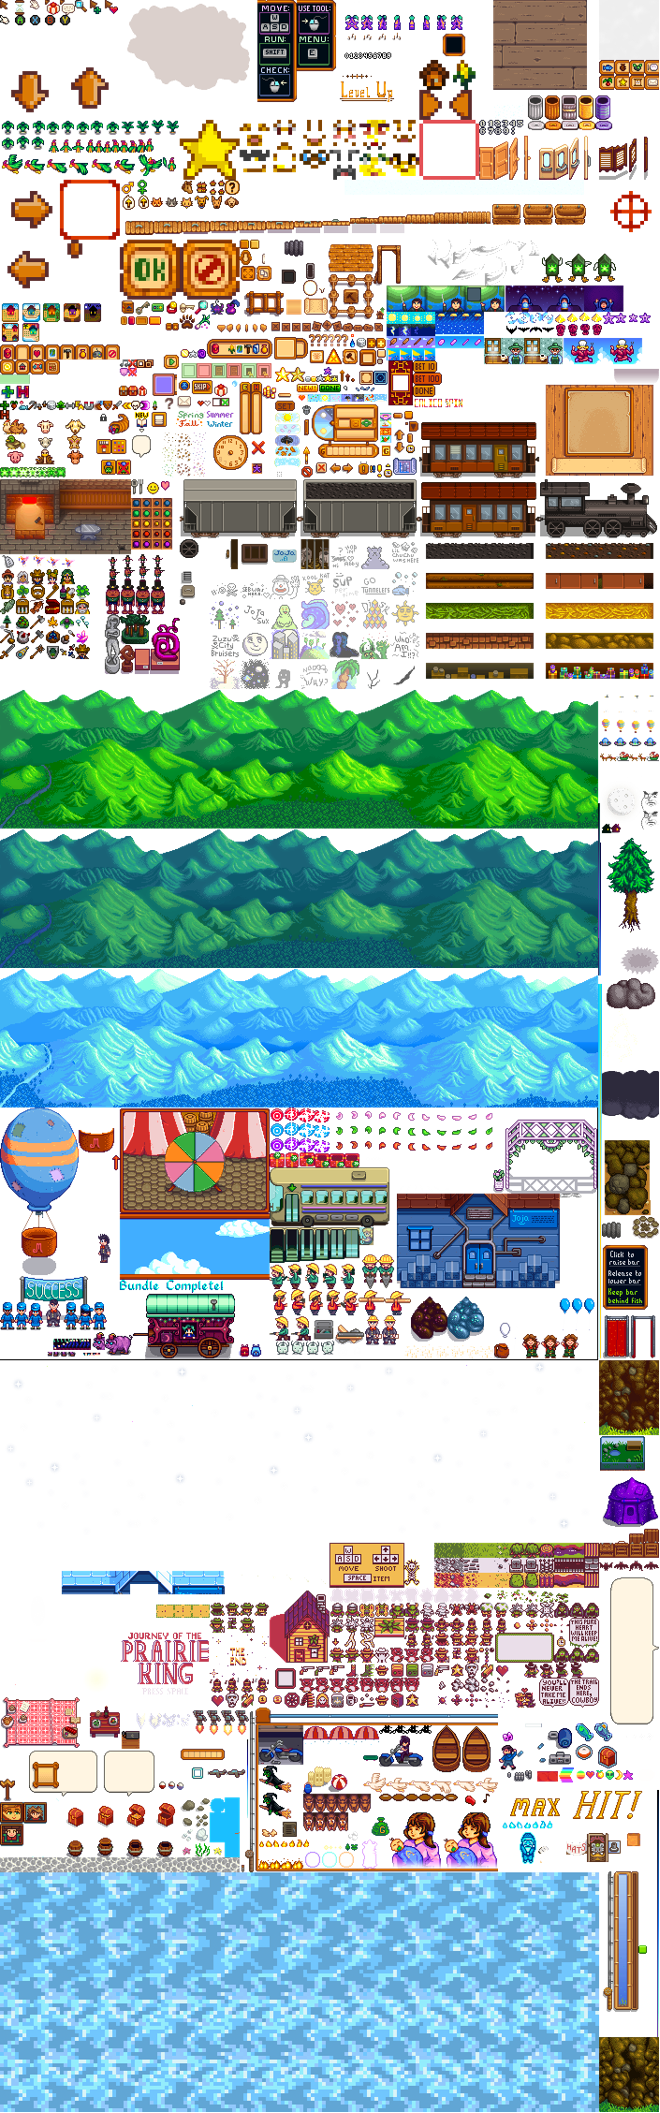
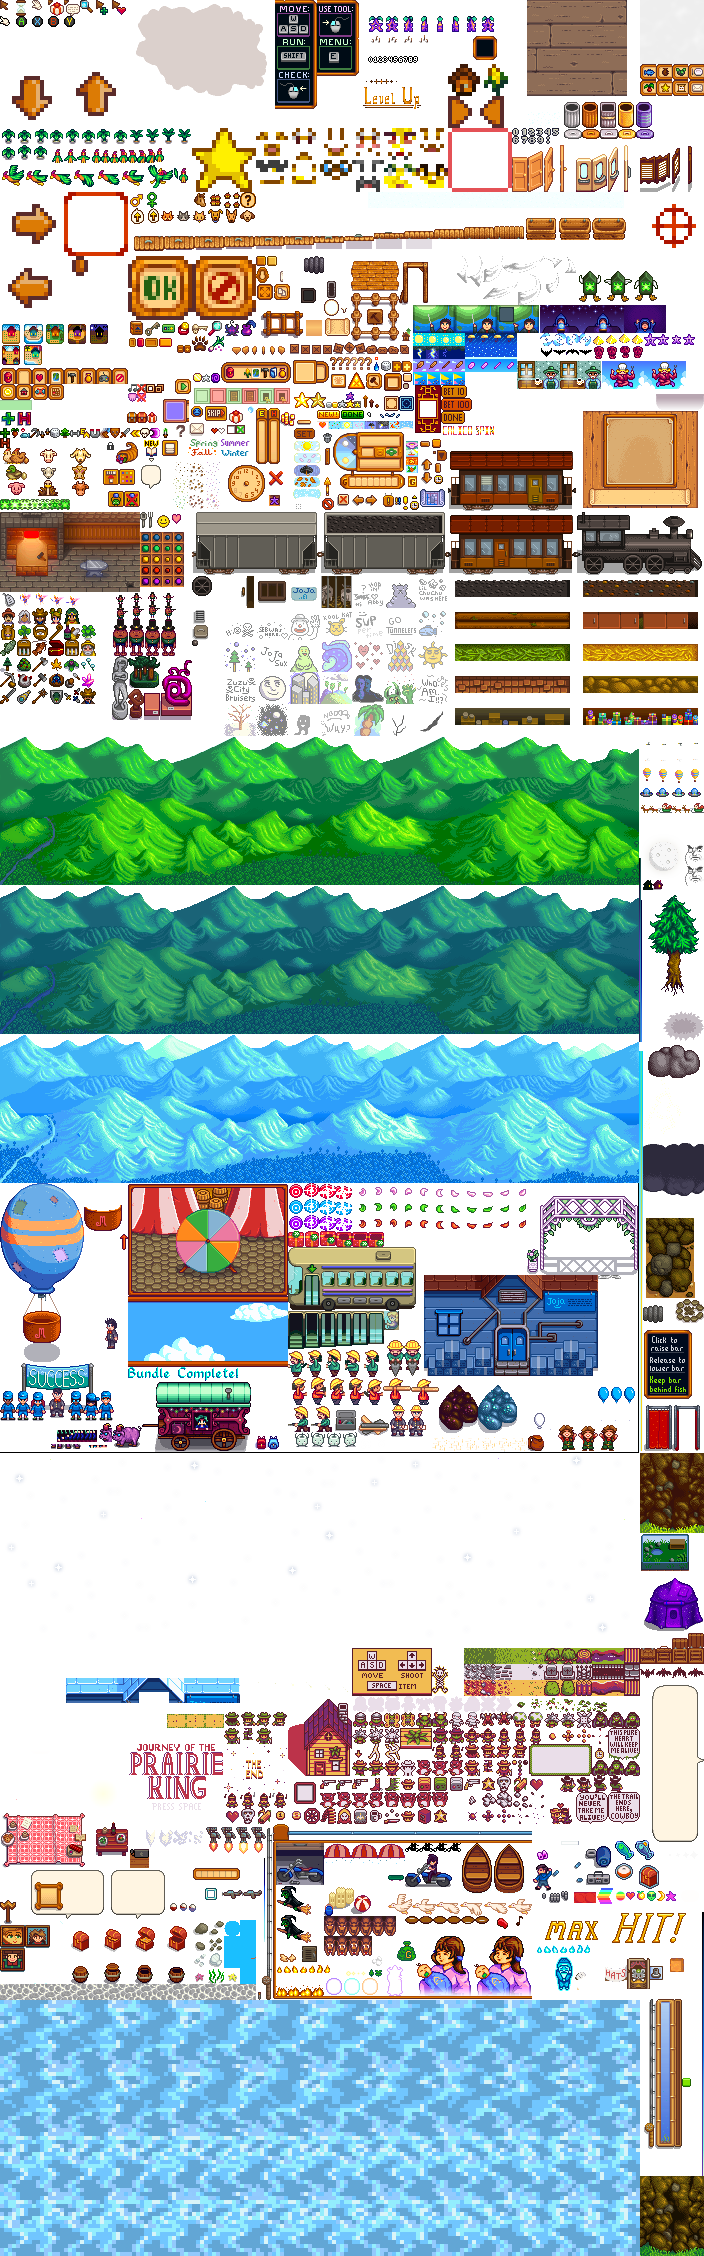
fixed cursors texture

diff --git a/EnhancedWheelSpinGame/ModEntry.cs b/EnhancedWheelSpinGame/ModEntry.cs
@@ -45,17 +45,15 @@ namespace EnhancedWhenSpinGame
 
         private void LoadWheelAssets(object sender, AssetRequestedEventArgs e)
         {
-            if (e.Name.StartsWith("LooseSprites/", false, true))
+            if (e.Name.IsEquivalentTo("LooseSprites/Cursors"))
             {
-                if (e.Name.IsEquivalentTo("LooseSprites/Cursors"))
-                {
-                    e.LoadFromModFile<Texture2D>("assets/Cursors.png", AssetLoadPriority.Medium);
-                }
-                else if (e.Name.IsEquivalentTo("LooseSprites/Festivals"))
-                {
-                    e.LoadFromModFile<Texture2D>("assets/Festivals.png", AssetLoadPriority.Medium);
-                }
+                e.LoadFromModFile<Texture2D>("assets/Cursors.png", AssetLoadPriority.Medium);
             }
+            else if (e.Name.IsEquivalentTo("Maps/Festivals"))
+            {
+                e.LoadFromModFile<Texture2D>("assets/Festivals.png", AssetLoadPriority.Medium);
+            }
+
         }
 
         /* TODO remove after completion */

diff --git a/EnhancedWheelSpinGame/WheelSpinGame.cs b/EnhancedWheelSpinGame/WheelSpinGame.cs
@@ -37,7 +37,7 @@ namespace EnhancedWheelSpinGame
                 arrowRotationVelocity += Math.PI / 64.0;
             }
 
-            return getArrowRotationVelocity();
+            return arrowRotationVelocity;
         }
 
         public static bool NewWheel(GameTime time)
@@ -245,7 +245,7 @@ namespace EnhancedWheelSpinGame
             }
         }
 
-        public void Wage(int value)
+        public static void Wage(int value)
         {
             if (value <= Game1.player.festivalScore)
             {
